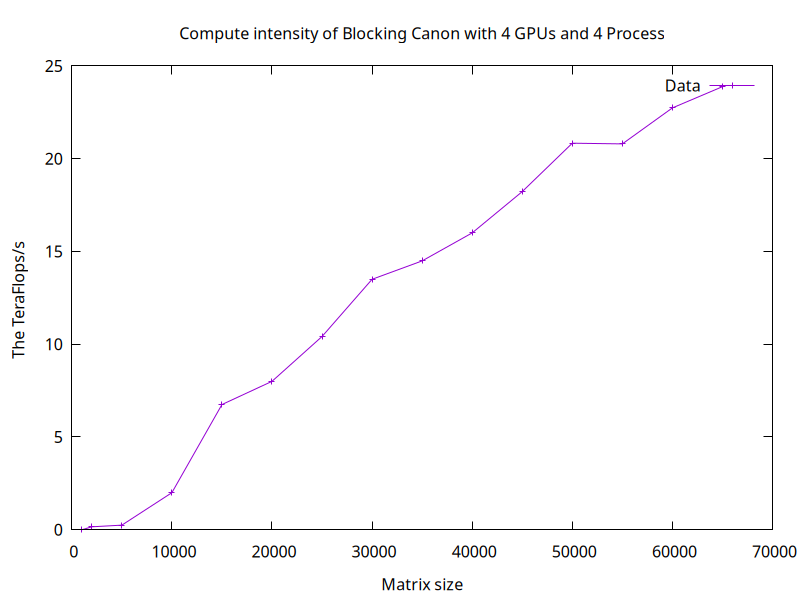
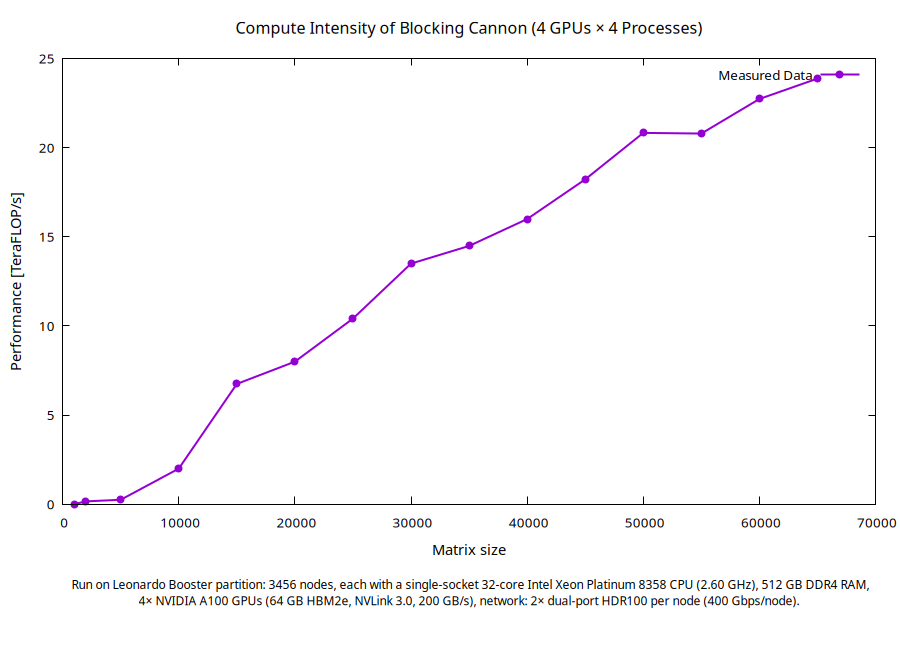
added a readme file in the blocking cannon with cuda

diff --git a/Cannon_Matrix_Mult/Blocking_Cannon_w_CUDA/README.md b/Cannon_Matrix_Mult/Blocking_Cannon_w_CUDA/README.md
@@ -1,0 +1,107 @@
+# Parallel Matrix Multiplication using Cannon’s Algorithm (CUDA + MPI)
+
+This project implements a **hybrid MPI + CUDA** version of Cannon’s algorithm for dense matrix multiplication, evaluated on the **Leonardo Booster** partition at CINECA.
+
+---
+
+## 🧩 Overview
+
+Cannon’s algorithm decomposes a square matrix multiplication  
+\[
+C = A \times B
+\]
+across an \( N \times N \) MPI process grid. Each MPI rank performs local matrix blocks multiplication and communicates sub-blocks with its neighbors in a toroidal topology.
+
+This implementation offloads each local block multiplication to **NVIDIA A100 GPUs** using CUDA kernels and coordinates inter-process communication with **MPI**.
+
+---
+
+## ⚙ Code Structure
+
+```
+.
+├── main.cu                     # Main Cannon’s algorithm (MPI + CUDA)
+├── Parallel_CSimple_timer.hpp  # Timing utility (MPI-aware)
+├── test.cpp                    # Validation test for correctness
+├── compile.job                 # Build script for Leonardo
+├── 1node.job                   # Run script (Slurm batch)
+├── plot.gp                     # Gnuplot script for performance plot
+└── flops.png                   # Final performance plot
+```
+
+---
+
+## 🚀 Compilation
+
+Compilation is automated by **`compile.job`**, which loads the proper modules and builds `main.cu` with NVHPC or CUDA + MPI toolchains.  
+For manual compilation:
+
+```bash
+mpicxx -O3 -std=c++17 -ccbin nvc++ main.cu -o cannon_gpu.x        -I. -lcudart -L${CUDA_HOME}/lib64
+```
+
+---
+
+## 🧠 Execution on Leonardo
+
+The provided **`1node.job`** script runs the executable on one Booster node:
+
+```bash
+sbatch 1node.job
+```
+
+### Leonardo Booster hardware
+> **Booster partition (BullSequana X2135 “Da Vinci”):**  
+> 3456 nodes, each with a single-socket 32-core **Intel Xeon Platinum 8358** CPU (2.60 GHz),  
+> 512 GB DDR4 RAM, **4 × NVIDIA A100 GPUs** (64 GB HBM2e, NVLink 3.0, 200 GB/s),  
+> interconnect: **2 × dual-port HDR100** (400 Gb/s per node).
+
+Each rank–GPU pair executes a local matrix block multiplication, and timing is collected via `Parallel_CSimple_timer.hpp` using synchronized MPI barriers to ensure consistent measurements.
+
+---
+
+## 📊 Numerical Experiment
+
+The figure below summarizes the measured performance:
+
+![Compute Intensity of Blocking Cannon](flops.png)
+
+**Figure 1.** Compute intensity (TeraFLOP/s) of Cannon’s algorithm with 4 GPUs × 4 MPI processes on Leonardo Booster.  
+Each data point represents the average sustained performance across multiple runs for increasing matrix sizes.
+
+---
+
+## 🔍 Observations
+
+- **Scalability:** Performance increases nearly linearly with matrix size until GPU memory saturation, reflecting efficient overlap of communication and computation.  
+- **Peak Performance:** The implementation achieves ≈ 24 TeraFLOP/s on the largest tested matrix, consistent with expected A100 GPU peak performance for double-precision GEMM when distributed across 4 GPUs.  
+- **Communication Overhead:** For smaller matrices, performance drops due to startup latency in MPI broadcasts and synchronization phases.  
+- **Load Balance:** Uniform block decomposition ensures near-perfect workload distribution across ranks.
+
+---
+
+## 📈 Visualization
+
+Recreate the performance plot with:
+
+```bash
+gnuplot plot.gp
+```
+
+This produces `flops.png` using data from `times.dat`.
+
+---
+
+## 🧾 References
+
+- Cannon, L.E. *“A Cellular Computer to Implement the Kalman Filter Algorithm.”* PhD Thesis, Montana State University (1969).  
+- NVIDIA Developer Blog – *“Scaling Matrix Multiplication across GPUs with CUDA and MPI.”*
+
+---
+
+## 🧰 Acknowledgments
+
+Experiments executed on the **Leonardo Booster** partition at **CINECA** under the ICTP–MHPC program.  
+Special thanks to the CINECA support team for maintaining the NVHPC and HPC-X environments.
+
+---
